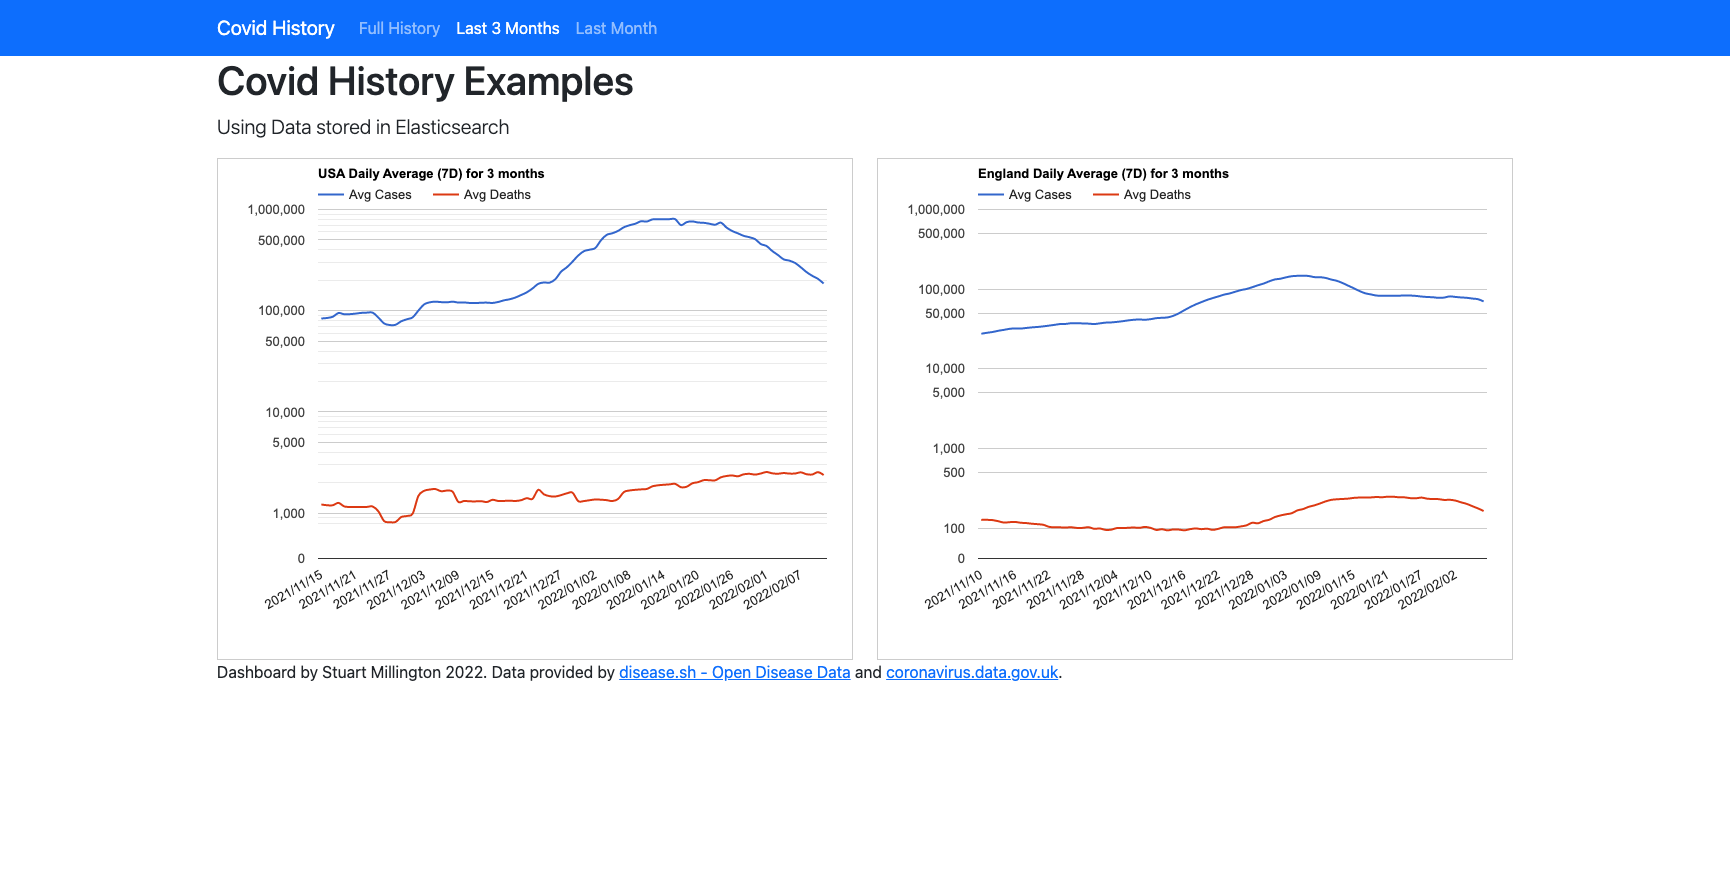
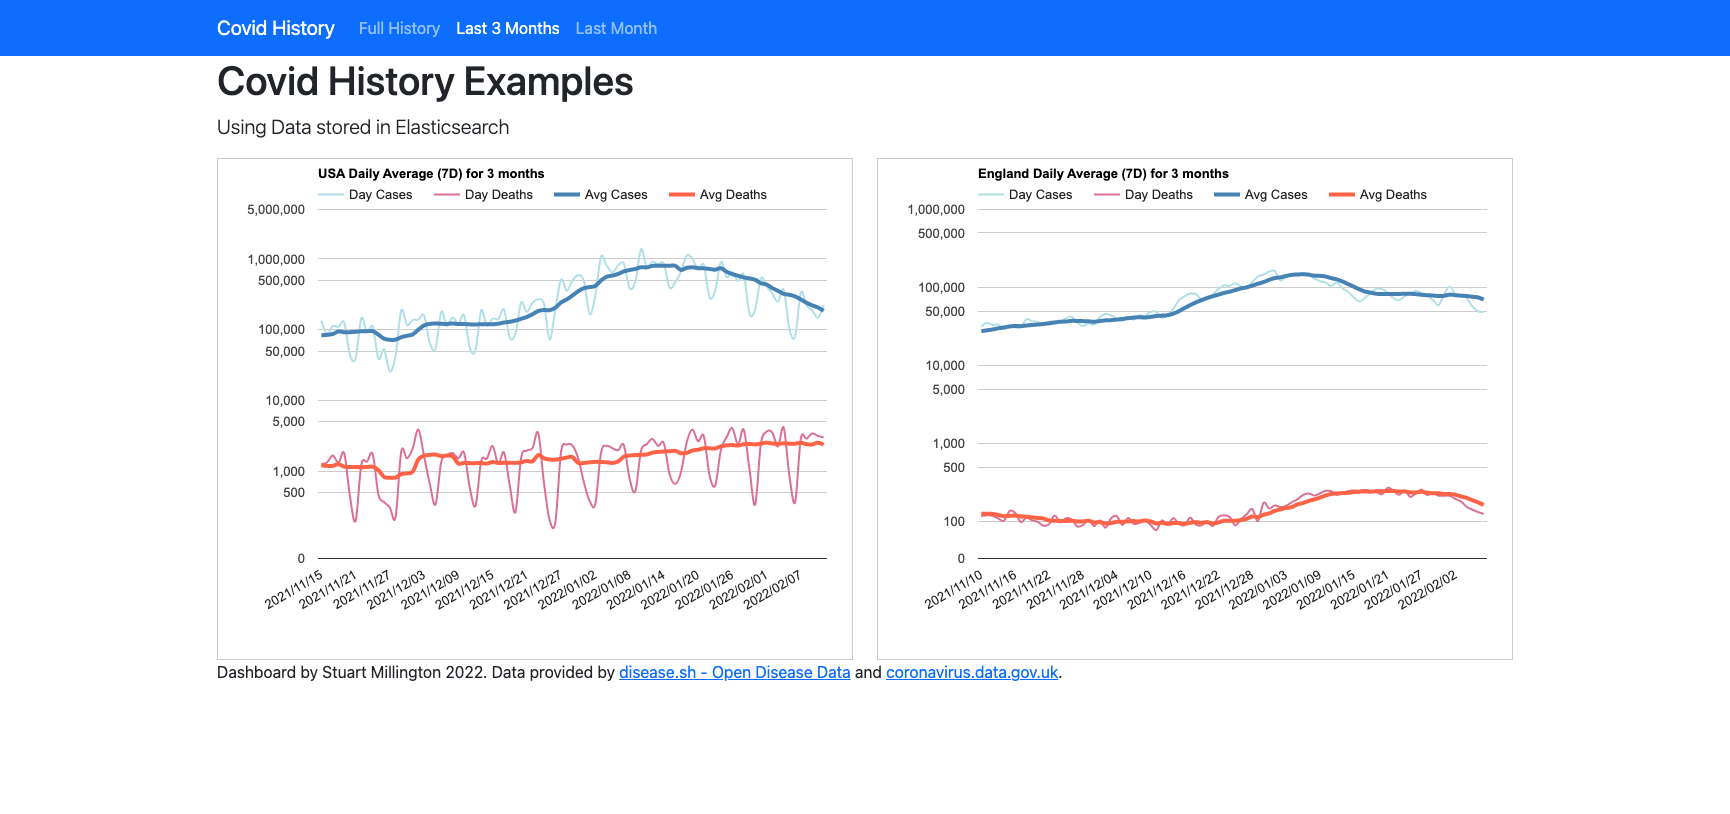
Update graphs

diff --git a/api_to_elastic/month.php b/api_to_elastic/month.php
@@ -34,10 +34,10 @@ $england_data = getEnglandData($england_start_timestamp,$england_end_timestamp);
 
                 // Create the data table.
                 var data = google.visualization.arrayToDataTable([
-                  ['Date', 'Avg Cases', 'Avg Deaths', 'Day Cases', 'Day Deaths'],
+                  ['Date', 'Day Cases', 'Day Deaths', 'Avg Cases', 'Avg Deaths'],
 <?php
                 foreach($usa_data as $key => $val) {
-                    echo("['" . $val['dtestr']  . "'," . $val['avgcases']  . "," . $val['avgdeaths']  . "," . $val['daycases']  . "," . $val['daydeaths']  . "],");
+                    echo("['" . $val['dtestr']  . "'," . $val['daycases']  . "," . $val['daydeaths']  . "," . $val['avgcases']  . "," . $val['avgdeaths']  . "],");
                 }
 ?>
                 ]);
@@ -50,6 +50,13 @@ $england_data = getEnglandData($england_start_timestamp,$england_end_timestamp);
                     legend: { position: 'top' },
                     curveType: 'function',
                     chartArea:{left: 100, right: 25, top: 50, bottom: 100, width:'auto',height:'auto'},
+                    series: {
+                        0: { lineWidth: 2 },
+                        1: { lineWidth: 2 },
+                        2: { lineWidth: 4 },
+                        3: { lineWidth: 4 },
+                    },
+                    colors: ['#B0E0E6', '#DB7093', '#4682B4', '#FF6347']
                 };
 
                 // Instantiate and draw the chart.
@@ -62,10 +69,10 @@ $england_data = getEnglandData($england_start_timestamp,$england_end_timestamp);
 
                 // Create the data table.
                 var data = google.visualization.arrayToDataTable([
-                  ['Date', 'Avg Cases', 'Avg Deaths', 'Day Cases', 'Day Deaths'],
+                  ['Date', 'Day Cases', 'Day Deaths', 'Avg Cases', 'Avg Deaths'],
 <?php
                 foreach($england_data as $key => $val) {
-                    echo("['" . $val['dtestr']  . "'," . $val['avgcases']  . "," . $val['avgdeaths']  . "," . $val['daycases']  . "," . $val['daydeaths']  . "],");
+                    echo("['" . $val['dtestr']  . "'," . $val['daycases']  . "," . $val['daydeaths']  . "," . $val['avgcases']  . "," . $val['avgdeaths']  . "],");
                 }
 ?>
                 ]);
@@ -78,6 +85,13 @@ $england_data = getEnglandData($england_start_timestamp,$england_end_timestamp);
                     legend: { position: 'top' },
                     curveType: 'function',
                     chartArea:{left: 100, right: 25, top: 50, bottom: 100, width:'auto',height:'auto'},
+                    series: {
+                        0: { lineWidth: 2 },
+                        1: { lineWidth: 2 },
+                        2: { lineWidth: 4 },
+                        3: { lineWidth: 4 },
+                    },
+                    colors: ['#B0E0E6', '#DB7093', '#4682B4', '#FF6347']
                 };
 
                 // Instantiate and draw the chart.

diff --git a/api_to_elastic/recent.php b/api_to_elastic/recent.php
@@ -34,10 +34,10 @@ $england_data = getEnglandData($england_start_timestamp,$england_end_timestamp);
 
                 // Create the data table.
                 var data = google.visualization.arrayToDataTable([
-                  ['Date', 'Avg Cases', 'Avg Deaths'],
+                  ['Date', 'Day Cases', 'Day Deaths', 'Avg Cases', 'Avg Deaths'],
 <?php
                 foreach($usa_data as $key => $val) {
-                    echo("['" . $val['dtestr']  . "'," . $val['avgcases']  . "," . $val['avgdeaths']  . "],");
+                    echo("['" . $val['dtestr']  . "'," . $val['daycases']  . "," . $val['daydeaths']  . "," . $val['avgcases']  . "," . $val['avgdeaths']  . "],");
                 }
 ?>
                 ]);
@@ -50,6 +50,13 @@ $england_data = getEnglandData($england_start_timestamp,$england_end_timestamp);
                     legend: { position: 'top' },
                     curveType: 'function',
                     chartArea:{left: 100, right: 25, top: 50, bottom: 100, width:'auto',height:'auto'},
+                    series: {
+                        0: { lineWidth: 2 },
+                        1: { lineWidth: 2 },
+                        2: { lineWidth: 4 },
+                        3: { lineWidth: 4 },
+                    },
+                    colors: ['#B0E0E6', '#DB7093', '#4682B4', '#FF6347']
                 };
 
                 // Instantiate and draw the chart.
@@ -62,10 +69,10 @@ $england_data = getEnglandData($england_start_timestamp,$england_end_timestamp);
 
                 // Create the data table.
                 var data = google.visualization.arrayToDataTable([
-                  ['Date', 'Avg Cases', 'Avg Deaths'],
+                  ['Date', 'Day Cases', 'Day Deaths', 'Avg Cases', 'Avg Deaths'],
 <?php
                 foreach($england_data as $key => $val) {
-                    echo("['" . $val['dtestr']  . "'," . $val['avgcases']  . "," . $val['avgdeaths']  . "],");
+                    echo("['" . $val['dtestr']  . "'," . $val['daycases']  . "," . $val['daydeaths']  . "," . $val['avgcases']  . "," . $val['avgdeaths']  . "],");
                 }
 ?>
                 ]);
@@ -78,6 +85,13 @@ $england_data = getEnglandData($england_start_timestamp,$england_end_timestamp);
                     legend: { position: 'top' },
                     curveType: 'function',
                     chartArea:{left: 100, right: 25, top: 50, bottom: 100, width:'auto',height:'auto'},
+                    series: {
+                        0: { lineWidth: 2 },
+                        1: { lineWidth: 2 },
+                        2: { lineWidth: 4 },
+                        3: { lineWidth: 4 },
+                    },
+                    colors: ['#B0E0E6', '#DB7093', '#4682B4', '#FF6347']
                 };
 
                 // Instantiate and draw the chart.

diff --git a/api_to_elastic/index.php b/api_to_elastic/index.php
@@ -32,10 +32,10 @@ $england_data = getEnglandData(1585094400,$england_end_timestamp);
 
                 // Create the data table.
                 var data = google.visualization.arrayToDataTable([
-                  ['Date', 'Avg Cases', 'Avg Deaths'],
+                  ['Date', 'Day Cases', 'Day Deaths', 'Avg Cases', 'Avg Deaths'],
 <?php
                 foreach($usa_data as $key => $val) {
-                    echo("['" . $val['dtestr']  . "'," . $val['avgcases']  . "," . $val['avgdeaths']  . "],");
+                    echo("['" . $val['dtestr']  . "'," . $val['daycases']  . "," . $val['daydeaths']  . "," . $val['avgcases']  . "," . $val['avgdeaths']  . "],");
                 }
 ?>
                 ]);
@@ -48,6 +48,13 @@ $england_data = getEnglandData(1585094400,$england_end_timestamp);
                     legend: { position: 'top' },
                     curveType: 'function',
                     chartArea:{left: 100, right: 25, top: 50, bottom: 100, width:'auto',height:'auto'},
+                    series: {
+                        0: { lineWidth: 2 },
+                        1: { lineWidth: 2 },
+                        2: { lineWidth: 4 },
+                        3: { lineWidth: 4 },
+                    },
+                    colors: ['#B0E0E6', '#DB7093', '#4682B4', '#FF6347']
                 };
 
                 // Instantiate and draw the chart.
@@ -60,10 +67,10 @@ $england_data = getEnglandData(1585094400,$england_end_timestamp);
 
                 // Create the data table.
                 var data = google.visualization.arrayToDataTable([
-                  ['Date', 'Avg Cases', 'Avg Deaths'],
+                  ['Date', 'Day Cases', 'Day Deaths', 'Avg Cases', 'Avg Deaths'],
 <?php
                 foreach($england_data as $key => $val) {
-                    echo("['" . $val['dtestr']  . "'," . $val['avgcases']  . "," . $val['avgdeaths']  . "],");
+                    echo("['" . $val['dtestr']  . "'," . $val['daycases']  . "," . $val['daydeaths']  . "," . $val['avgcases']  . "," . $val['avgdeaths']  . "],");
                 }
 ?>
                 ]);
@@ -76,6 +83,13 @@ $england_data = getEnglandData(1585094400,$england_end_timestamp);
                     legend: { position: 'top' },
                     curveType: 'function',
                     chartArea:{left: 100, right: 25, top: 50, bottom: 100, width:'auto',height:'auto'},
+                    series: {
+                        0: { lineWidth: 2 },
+                        1: { lineWidth: 2 },
+                        2: { lineWidth: 4 },
+                        3: { lineWidth: 4 },
+                    },
+                    colors: ['#B0E0E6', '#DB7093', '#4682B4', '#FF6347']
                 };
 
                 // Instantiate and draw the chart.

diff --git a/api_to_elastic/getmydata.php b/api_to_elastic/getmydata.php
@@ -52,10 +52,10 @@ function getUsaData ($startts = 0, $endts = 2147483646) {
                 $avgcaseshist[] = $val['_source']['daycases'];
                 $avgdeathhist[] = $val['_source']['daydeaths'];
                 if(count($avgcaseshist)) {
-                    $averagecases = array_sum($avgcaseshist)/count($avgcaseshist);
+                    $averagecases = round(array_sum($avgcaseshist)/count($avgcaseshist),0);
                 }
                 if(count($avgdeathhist)) {
-                    $averagedeaths = array_sum($avgdeathhist)/count($avgdeathhist);
+                    $averagedeaths = round(array_sum($avgdeathhist)/count($avgdeathhist),0);
                 }
 
                 $return_data[$val['_source']['dtetms']] = array(
@@ -141,11 +141,6 @@ function getEnglandData ($startts = 0, $endts = 2147483646) {
             $avgdeathhist = array();
             $avgadmithist = array();
             foreach($result['hits']['hits'] as $key => $val) {
-                // The UK data has some unusual characteristics and data points, so we need to clean it up a bit for display purposes...
-                // Remove erroneuos data points
-                if ($val['_source']['daycases'] > 2000000) {
-                    continue;
-                }
                 // Calculate 7 day averages
                 if (count($avgcaseshist) > 6) { // All arrays should be the same length
                     array_shift($avgcaseshist);
@@ -156,13 +151,13 @@ function getEnglandData ($startts = 0, $endts = 2147483646) {
                 $avgdeathhist[] = $val['_source']['daydeaths'];
                 $avgadmithist[] = $val['_source']['dayadmits'];
                 if(count($avgcaseshist)) {
-                    $averagecases = array_sum($avgcaseshist) / count($avgcaseshist);
+                    $averagecases = round(array_sum($avgcaseshist) / count($avgcaseshist),0);
                 }
                 if(count($avgdeathhist)) {
-                    $averagedeaths = array_sum($avgdeathhist) / count($avgdeathhist);
+                    $averagedeaths = round(array_sum($avgdeathhist) / count($avgdeathhist),0);
                 }
                 if(count($avgadmithist)) {
-                    $averageadmits = array_sum($avgadmithist) / count($avgadmithist);
+                    $averageadmits = round(array_sum($avgadmithist) / count($avgadmithist),0);
                 }
 
                $return_data[$val['_source']['dtetms']] = array(

diff --git a/api_to_elastic/update/update-england.php b/api_to_elastic/update/update-england.php
@@ -8,7 +8,7 @@ $client = Elasticsearch\ClientBuilder::create()->setHosts($ela_hosts)->build();
 
 //** ENGLAND History */
 try {
-    // Disease.sh data source for USA history
+    // UK Gov data source for England history
     $url = 'https://api.coronavirus.data.gov.uk/v1/data?filters=areaType=nation' . ";" . 'areaName=england&structure={%22date%22:%22date%22,%22newCases%22:%22newCasesByPublishDate%22,%22newDeaths%22:%22newDeaths28DaysByDeathDate%22,%22newAdmissions%22:%22newAdmissions%22,%22covidOccupiedMVBeds%22:%22covidOccupiedMVBeds%22,%22hospitalCases%22:%22hospitalCases%22}';
 
     // Use CURL to fetch data from API
